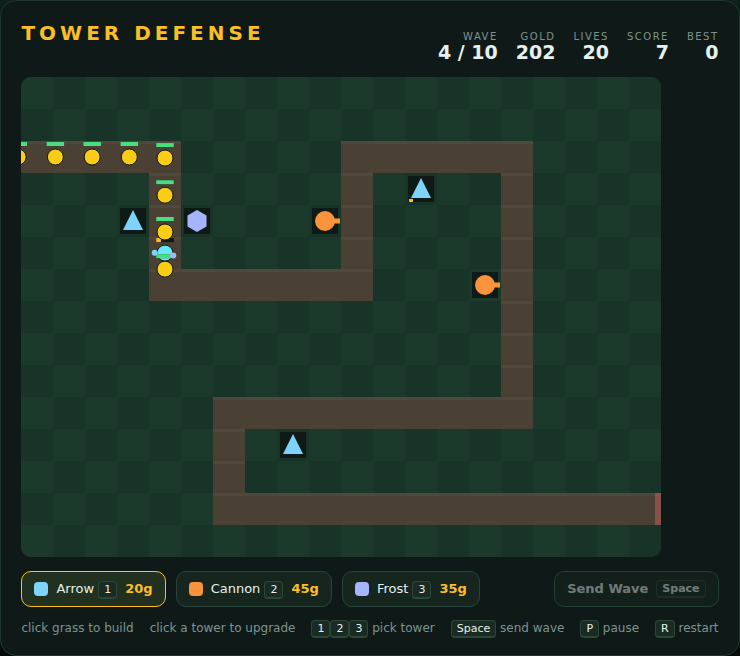
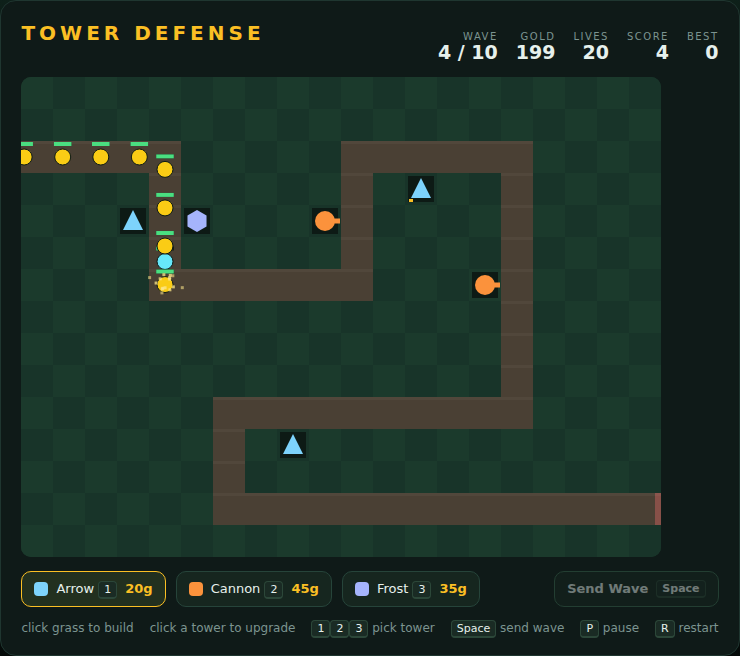
Tune Tower Defense difficulty curve
Scripted playthroughs showed a careless build order winning without
losing a life, so creep HP now scales 1.41x per wave (was 1.32x), late
creeps move faster, bosses have 10x HP and bounties are leaner.

Careless play now fails around wave 6; concentrated, upgraded towers
clear all ten waves with a few lives to spare.

Claude-Session: https://claude.ai/code/session_01GBk6d72mtN3FfGPNgdqHe2

Changed region(s): [[0.0311, 0.2134, 0.2486, 0.4573], [0.6838, 0.061, 0.7459, 0.0915], [0.8703, 0.061, 0.9014, 0.0915]]

diff --git a/TowerDefense/game.js b/TowerDefense/game.js
@@ -38,7 +38,7 @@ const PROJECTILE_SPEED = 420;      // px/s
 const SLOW_FACTOR = 0.45;          // speed multiplier while frozen
 const SLOW_DURATION = 1.5;         // seconds
 const SPAWN_INTERVAL = 0.7;        // seconds between creeps in a wave
-const BOSS_HP_MULT = 8;
+const BOSS_HP_MULT = 10;
 const BOSS_SPEED_MULT = 0.6;
 const BOSS_BOUNTY_MULT = 10;
 const BOSS_LIVES_COST = 5;
@@ -194,9 +194,9 @@ function selectTower(type) {
 // Creeps
 // ---------------------------------------------------------------------------
 
-function creepHp(w) { return Math.round(18 * Math.pow(1.32, w - 1)); }
-function creepSpeed(w) { return 1.5 + 0.05 * (w - 1); }   // cells/s
-function creepBounty(w) { return 3 + w; }
+function creepHp(w) { return Math.round(20 * Math.pow(1.41, w - 1)); }
+function creepSpeed(w) { return 1.5 + 0.07 * (w - 1); }   // cells/s
+function creepBounty(w) { return 2 + Math.ceil(w / 2); }
 function creepCount(w) { return 4 + 2 * w; }
 
 function syncCreep(creep) {

diff --git a/TowerDefense/DESIGN.md b/TowerDefense/DESIGN.md
@@ -47,10 +47,14 @@ results from the same inputs.
 ## Creeps
 
 - Wave `w` sends `4 + 2w` creeps, spawned 0.7 s apart.
-- HP is `round(18 · 1.32^(w-1))`, speed is `1.5 + 0.05(w-1)` cells/s, and each
-  creep is worth `3 + w` gold and the same in score.
-- Waves 5 and 10 also spawn a boss at the end of the wave: 8× HP, 0.6× speed,
+- HP is `round(20 · 1.41^(w-1))`, speed is `1.5 + 0.07(w-1)` cells/s, and each
+  creep is worth `2 + ceil(w/2)` gold and the same in score.
+- Waves 5 and 10 also spawn a boss at the end of the wave: 10× HP, 0.6× speed,
   10× bounty, and it costs 5 lives if it leaks (a normal creep costs 1).
+- Those constants were tuned against two scripted playthroughs: a careless
+  player who sprinkles towers in scan order dies around wave 6, while one who
+  concentrates high-coverage spots and upgrades them clears wave 10 with a
+  handful of lives left.
 
 ## Economy and flow
 
